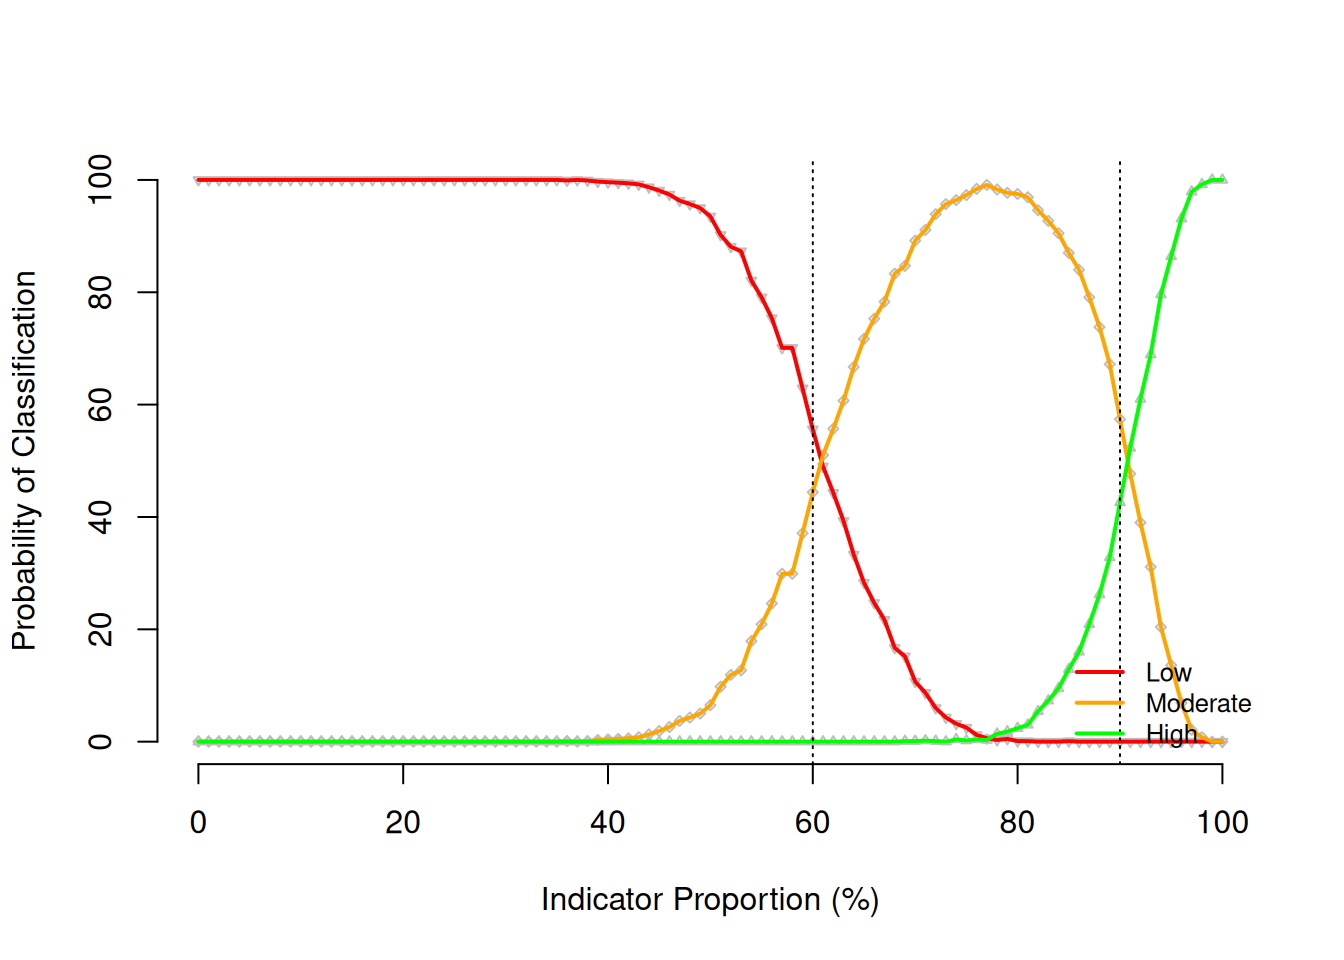
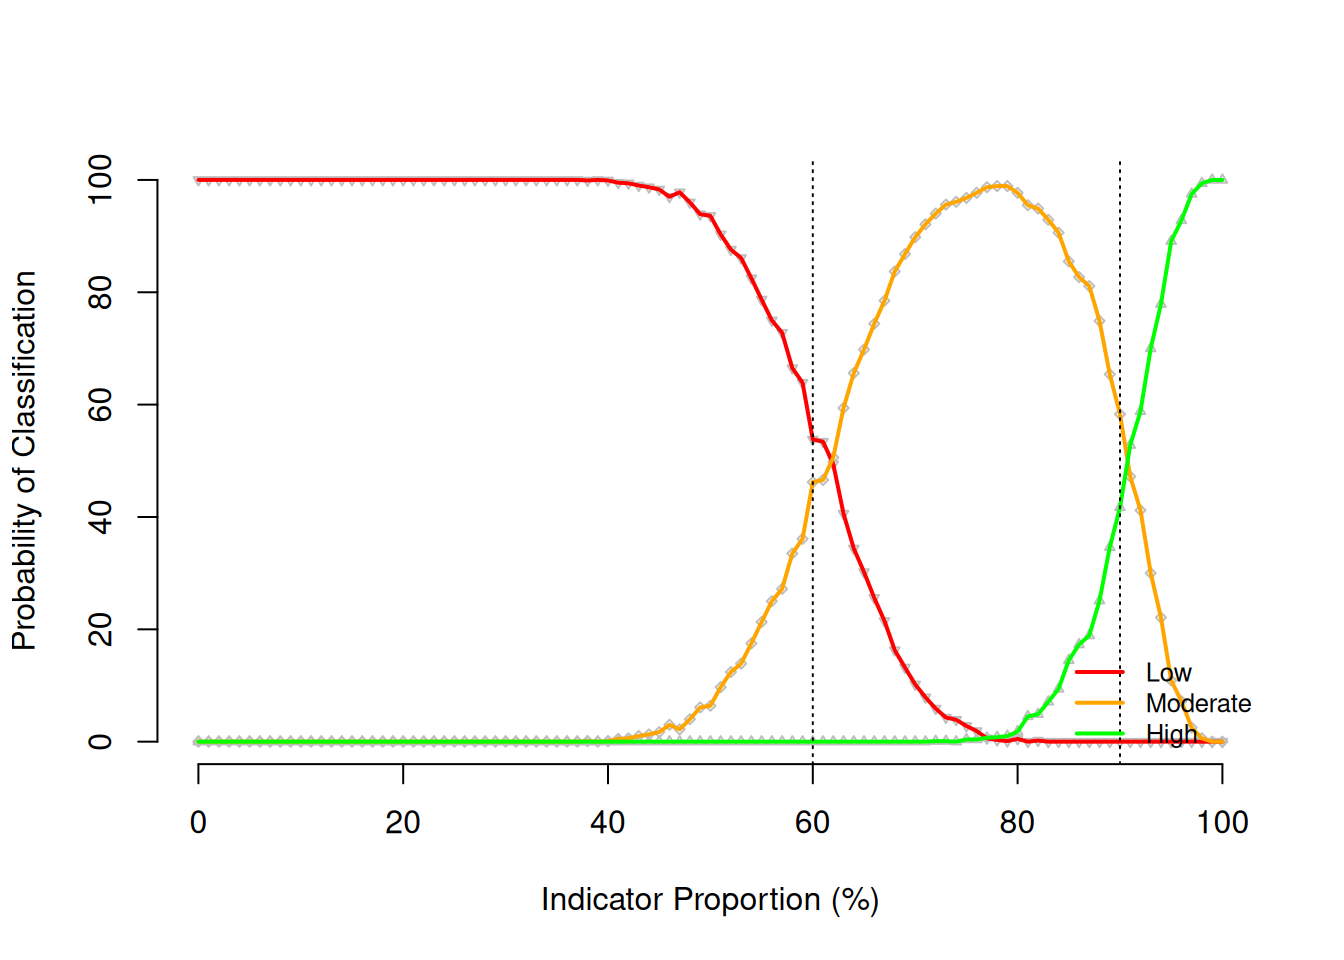
Built site for gh-pages

diff --git a/blog.html b/blog.html
@@ -310,7 +310,7 @@ window.Quarto = {
 
 <div class="quarto-listing quarto-listing-container-default" id="listing-listing">
 <div class="list quarto-listing-default">
-<div class="quarto-post image-right" data-index="0" data-categories="bmV3cyUyQ2Fubm91bmNlbWVudCUyQ21lZXQtdGhlLXRlYW0=" data-listing-date-sort="1771632000000" data-listing-file-modified-sort="1771927010360" data-listing-date-modified-sort="1771927010000" data-listing-reading-time-sort="2" data-listing-word-count-sort="303">
+<div class="quarto-post image-right" data-index="0" data-categories="bmV3cyUyQ2Fubm91bmNlbWVudCUyQ21lZXQtdGhlLXRlYW0=" data-listing-date-sort="1771632000000" data-listing-file-modified-sort="1771931333941" data-listing-date-modified-sort="1771931333000" data-listing-reading-time-sort="2" data-listing-word-count-sort="303">
 <div class="thumbnail"><a href="./posts/2026-02-21-aziz-executive-director/index.html" class="no-external">
 
 <img loading="lazy" src="./images/azizgoza.jpeg" class="thumbnail-image">
@@ -347,7 +347,7 @@ Ernest Guevarra
 </a>
 </div>
 </div>
-<div class="quarto-post image-right" data-index="1" data-categories="bmV3cyUyQ2Fubm91bmNlbWVudA==" data-listing-date-sort="1770940800000" data-listing-file-modified-sort="1771927010360" data-listing-date-modified-sort="1771927010000" data-listing-reading-time-sort="2" data-listing-word-count-sort="397">
+<div class="quarto-post image-right" data-index="1" data-categories="bmV3cyUyQ2Fubm91bmNlbWVudA==" data-listing-date-sort="1770940800000" data-listing-file-modified-sort="1771931333941" data-listing-date-modified-sort="1771931333000" data-listing-reading-time-sort="2" data-listing-word-count-sort="397">
 <div class="thumbnail"><a href="./posts/2026-02-13-welcome-to-nutriverse/index.html" class="no-external">
 
 <img loading="lazy" src="./images/nutriverse_banner.png" class="thumbnail-image">
@@ -382,7 +382,7 @@ Ernest Guevarra
 </a>
 </div>
 </div>
-<div class="quarto-post image-right" data-index="2" data-categories="bmV3cyUyQ2Fubm91bmNlbWVudA==" data-listing-date-sort="1770249600000" data-listing-file-modified-sort="1771927010360" data-listing-date-modified-sort="1771927010000" data-listing-reading-time-sort="4" data-listing-word-count-sort="603">
+<div class="quarto-post image-right" data-index="2" data-categories="bmV3cyUyQ2Fubm91bmNlbWVudA==" data-listing-date-sort="1770249600000" data-listing-file-modified-sort="1771931333941" data-listing-date-modified-sort="1771931333000" data-listing-reading-time-sort="4" data-listing-word-count-sort="603">
 <div class="thumbnail"><a href="./posts/2026-02-05-open-source-collective/index.html" class="no-external">
 
 <img loading="lazy" src="./images/osc_logo_square.png" class="thumbnail-image">
@@ -417,7 +417,7 @@ Ernest Guevarra
 </a>
 </div>
 </div>
-<div class="quarto-post image-right" data-index="3" data-categories="bmV3cyUyQ2Fubm91bmNlbWVudCUyQ3BhY2thZ2Vz" data-listing-date-sort="1770076800000" data-listing-file-modified-sort="1771927010360" data-listing-date-modified-sort="1771927010000" data-listing-reading-time-sort="6" data-listing-word-count-sort="1118">
+<div class="quarto-post image-right" data-index="3" data-categories="bmV3cyUyQ2Fubm91bmNlbWVudCUyQ3BhY2thZ2Vz" data-listing-date-sort="1770076800000" data-listing-file-modified-sort="1771931333941" data-listing-date-modified-sort="1771931333000" data-listing-reading-time-sort="6" data-listing-word-count-sort="1118">
 <div class="thumbnail"><a href="./posts/2026-02-03-sleacr-release/index.html" class="no-external">
 
 <img loading="lazy" src="./images/sleacr_banner.svg" class="thumbnail-image">
@@ -454,7 +454,7 @@ Ernest Guevarra
 </a>
 </div>
 </div>
-<div class="quarto-post image-right" data-index="4" data-categories="bmV3cyUyQ3BhY2thZ2Vz" data-listing-date-sort="1769904000000" data-listing-file-modified-sort="1771927010359" data-listing-date-modified-sort="1771927010000" data-listing-reading-time-sort="1" data-listing-word-count-sort="174">
+<div class="quarto-post image-right" data-index="4" data-categories="bmV3cyUyQ3BhY2thZ2Vz" data-listing-date-sort="1769904000000" data-listing-file-modified-sort="1771931333941" data-listing-date-modified-sort="1771931333000" data-listing-reading-time-sort="1" data-listing-word-count-sort="174">
 <div class="thumbnail"><a href="./posts/2026-02-01-package-updates/index.html" class="no-external">
 
 <img loading="lazy" src="./images/nipntk_banner.svg" class="thumbnail-image">
@@ -489,7 +489,7 @@ Ernest Guevarra
 </a>
 </div>
 </div>
-<div class="quarto-post image-right" data-index="5" data-categories="bmV3cyUyQ21vbnRobHktcm91bmQtdXA=" data-listing-date-sort="1769472000000" data-listing-file-modified-sort="1771927010359" data-listing-date-modified-sort="1771927010000" data-listing-reading-time-sort="1" data-listing-word-count-sort="198">
+<div class="quarto-post image-right" data-index="5" data-categories="bmV3cyUyQ21vbnRobHktcm91bmQtdXA=" data-listing-date-sort="1769472000000" data-listing-file-modified-sort="1771931333941" data-listing-date-modified-sort="1771931333000" data-listing-reading-time-sort="1" data-listing-word-count-sort="198">
 <div class="thumbnail"><a href="./posts/2026-01-27-monthly-roundup/index.html" class="no-external">
 
 <img loading="lazy" src="./images/nutriverse.png" class="thumbnail-image">

diff --git a/index.html b/index.html
@@ -345,7 +345,7 @@ window.Quarto = {
 <h1>Latest posts</h1>
 <div id="listing-featured-posts" class="quarto-listing quarto-listing-container-grid">
 <div class="list grid quarto-listing-cols-3">
-<div class="g-col-1" data-index="0" data-categories="bmV3cyUyQ2Fubm91bmNlbWVudCUyQ21lZXQtdGhlLXRlYW0=" data-listing-date-sort="1771632000000" data-listing-file-modified-sort="1771927010360" data-listing-date-modified-sort="1771927010000" data-listing-reading-time-sort="2" data-listing-word-count-sort="303">
+<div class="g-col-1" data-index="0" data-categories="bmV3cyUyQ2Fubm91bmNlbWVudCUyQ21lZXQtdGhlLXRlYW0=" data-listing-date-sort="1771632000000" data-listing-file-modified-sort="1771931333941" data-listing-date-modified-sort="1771931333000" data-listing-reading-time-sort="2" data-listing-word-count-sort="303">
 <a href="./posts/2026-02-21-aziz-executive-director/index.html" class="quarto-grid-link">
 <div class="quarto-grid-item card h-100 card-left borderless">
 <p class="card-img-top">
@@ -369,7 +369,7 @@ Feb 21, 2026
 </div>
 </div></a>
 </div>
-<div class="g-col-1" data-index="1" data-categories="bmV3cyUyQ2Fubm91bmNlbWVudA==" data-listing-date-sort="1770940800000" data-listing-file-modified-sort="1771927010360" data-listing-date-modified-sort="1771927010000" data-listing-reading-time-sort="2" data-listing-word-count-sort="397">
+<div class="g-col-1" data-index="1" data-categories="bmV3cyUyQ2Fubm91bmNlbWVudA==" data-listing-date-sort="1770940800000" data-listing-file-modified-sort="1771931333941" data-listing-date-modified-sort="1771931333000" data-listing-reading-time-sort="2" data-listing-word-count-sort="397">
 <a href="./posts/2026-02-13-welcome-to-nutriverse/index.html" class="quarto-grid-link">
 <div class="quarto-grid-item card h-100 card-left borderless">
 <p class="card-img-top">
@@ -393,7 +393,7 @@ Feb 13, 2026
 </div>
 </div></a>
 </div>
-<div class="g-col-1" data-index="2" data-categories="bmV3cyUyQ2Fubm91bmNlbWVudA==" data-listing-date-sort="1770249600000" data-listing-file-modified-sort="1771927010360" data-listing-date-modified-sort="1771927010000" data-listing-reading-time-sort="4" data-listing-word-count-sort="603">
+<div class="g-col-1" data-index="2" data-categories="bmV3cyUyQ2Fubm91bmNlbWVudA==" data-listing-date-sort="1770249600000" data-listing-file-modified-sort="1771931333941" data-listing-date-modified-sort="1771931333000" data-listing-reading-time-sort="4" data-listing-word-count-sort="603">
 <a href="./posts/2026-02-05-open-source-collective/index.html" class="quarto-grid-link">
 <div class="quarto-grid-item card h-100 card-left borderless">
 <p class="card-img-top">
@@ -427,7 +427,7 @@ Feb 5, 2026
 <h1>Featured packages</h1>
 <div id="listing-featured-packages" class="quarto-listing quarto-listing-container-grid">
 <div class="list grid quarto-listing-cols-3">
-<div class="g-col-1" data-index="0" data-listing-file-modified-sort="1771927010359" data-listing-reading-time-sort="2" data-listing-word-count-sort="280">
+<div class="g-col-1" data-index="0" data-listing-file-modified-sort="1771931333940" data-listing-reading-time-sort="2" data-listing-word-count-sort="280">
 <a href="./packages/nipnTK.html" class="quarto-grid-link">
 <div class="quarto-grid-item card h-100 card-left borderless">
 <p class="card-img-top">
@@ -448,7 +448,7 @@ nipnTK: National Information Platforms for Nutrition (NiPN) Data Quality Toolkit
 </div>
 </div></a>
 </div>
-<div class="g-col-1" data-index="1" data-listing-file-modified-sort="1771927010359" data-listing-reading-time-sort="2" data-listing-word-count-sort="238">
+<div class="g-col-1" data-index="1" data-listing-file-modified-sort="1771931333941" data-listing-reading-time-sort="2" data-listing-word-count-sort="238">
 <a href="./packages/sleacr.html" class="quarto-grid-link">
 <div class="quarto-grid-item card h-100 card-left borderless">
 <p class="card-img-top">
@@ -469,7 +469,7 @@ sleacr: Simplified Lot Quality Assurance Sampling Evaluation of Access and Cover
 </div>
 </div></a>
 </div>
-<div class="g-col-1" data-index="2" data-listing-file-modified-sort="1771927010359" data-listing-reading-time-sort="2" data-listing-word-count-sort="263">
+<div class="g-col-1" data-index="2" data-listing-file-modified-sort="1771931333941" data-listing-reading-time-sort="2" data-listing-word-count-sort="263">
 <a href="./packages/zscorer.html" class="quarto-grid-link">
 <div class="quarto-grid-item card h-100 card-left borderless">
 <p class="card-img-top">

diff --git a/contributing/index.html b/contributing/index.html
@@ -291,7 +291,7 @@ background: #E4F0EF;
 
 
 
-<p>nutriverse develops open source technical tools and systems along with a community of practice infrastructure that actively participates in, leverages, and stewards the use of these tools and systems for the purpose of open and reproducible nutrition data analytics and research. Our core team and community cultivate an inclusive and welcoming space where people with diverse backgrounds and experience levels can learn, exchange ideas, and collaborate openly through shared norms and open-source software. All participation in nutriverse activities is guided by our <a href="https://nutriverse.io/code-of-conduct.html">Code of Conduct</a>.</p>
+<p><a href="https://nutriverse.io">nutriverse</a> develops open source technical tools and systems along with a community of practice infrastructure that actively participates in, leverages, and stewards the use of these tools and systems for the purpose of open and reproducible nutrition data analytics and research. Our core team and community cultivate an inclusive and welcoming space where people with diverse backgrounds and experience levels can learn, exchange ideas, and collaborate openly through shared norms and open-source software. All participation in nutriverse activities is guided by our <a href="https://nutriverse.io/code-of-conduct.html">Code of Conduct</a>.</p>
 <p>We encourage contributions from people of all backgrounds and skill levels, whether in coding, documentation, mentoring, localisation, or other forms of participation. Your perspective matters, whether you’re an experienced programmer or just getting started. You don’t have to identify as a developer to make a meaningful impact. You might <strong>spend 30 minutes</strong> sharing how you use a package in our <a href="https://nutriverse.zulipchat.com" class="external" target="_blank">Zulip chat forum</a> or reporting a bug, <strong>an hour</strong> attending a Community Call to learn something new, or <strong>take on a longer-term role</strong> helping to maintain a package.</p>
 <section id="what-are-some-benefits-of-contributing" class="level2">
 <h2 class="anchored" data-anchor-id="what-are-some-benefits-of-contributing">What are some benefits of contributing?</h2>
@@ -387,7 +387,7 @@ background: #E4F0EF;
 <div class="img-float">
 <p><img src="../images/learn.svg" class="img-fluid" style="float: right; margin: 10px; width: 250px"></p>
 </div>
-<p>nutriverse offers opportunities for both new and experienced <a href="https://r-project.org" class="external" target="_blank">R</a> users and developers to grow, whether by reading and listening, or by learning through hands-on experience. All of this takes place in a culture grounded in trust, generosity, proper attribution, and appreciation.</p>
+<p><a href="https://nutriverse.io">nutriverse</a> offers opportunities for both new and experienced <a href="https://r-project.org" class="external" target="_blank">R</a> users and developers to grow, whether by reading and listening, or by learning through hands-on experience. All of this takes place in a culture grounded in trust, generosity, proper attribution, and appreciation.</p>
 <p>Our focus is on using, developing, and documenting code, as well as strengthening the community as these are areas that directly support our aims. Those seeking more general <a href="https://r-project.org" class="external" target="_blank">R</a> training may wish to explore resources such as <a href="https://education.rstudio.com/" class="external" target="_blank">RStudio Education</a> and <a href="https://carpentries.org/" class="external" target="_blank">The Carpentries</a>.</p>
 <p>We will be offering fee-based training services for use of <a href="https://r-project.org" class="external" target="_blank">R</a> specifically for open and reproducible health and nutrition data analysis and reporting workflows starting in April 2026.</p>
 <p>Browse the <em>“I want to”</em> statements below to find opportunities that spark your interest. Click on any action listed under a statement to learn more about the related <a href="https://nutriverse.io">nutriverse</a> resource and how you can get involved.</p>

diff --git a/community/index.html b/community/index.html
@@ -251,13 +251,12 @@ background: #E4F0EF;
 
 <div class="community-banner">
 <div class="info-block">
-<!-- > Tell me and I’ll forget.     
-> Show me, and I may not remember.     
-> Involve me, and I’ll understand.     -->
+<!-- > I hear and I forget;     
+> I see and I remember;     
+> I do and I understand. -->
 <blockquote class="blockquote">
-<p>I hear and I forget;<br>
-I see and I remember;<br>
-I do and I understand.</p>
+<p>Go to the people. Live with them. Learn from them. Love them. Start with what they know. Build with what they have. But with the best leaders, when the work is done, the task accomplished, the people will say <strong>‘We have done it ourselves’</strong>.<br>
+- Lao Tzu</p>
 </blockquote>
 </div>
 </div>
@@ -270,8 +269,8 @@ I do and I understand.</p>
 <p><img src="../images/community.png" class="img-fluid" style="float: left; margin: 10px; width: 250px"></p>
 </div>
 <h1 id="community-calls">Community calls</h1>
-<p>Our quarterly community call is when our community gets to come together and connect. We envision a forum by which the community is able to discuss on the relevant topics of the time.</p>
-<p>We plan to hold our first community call sometime in March 2026.</p>
+<p>Our quarterly community call is when our community gets to come together and connect. We envision a forum by which the community is able to discuss on the various topics relevant and important to the community.</p>
+<p>Our first community call will be on 18th of March 2026.</p>
 </div>
 </div>
 <!-- ::: {.event-banner}
@@ -301,7 +300,8 @@ See a full listing and calendar of upcoming events [here](https://oxford-ihtm.io
 <p><a href="https://zulip.com/"><img src="../images/zulip-icon-512x512.png" class="img-fluid" style="float: right; margin: 10px; width: 250px"></a></p>
 </div>
 <h1 id="community-chat-and-forum">Community chat and forum</h1>
-<p>We offer our community a forum for discussing, connecting, and collaborating. We are fortunate to have been gifted with sponsored hosting by <a href="https://zulip.com" class="external" target="_blank">Zulip</a>, an organised team chat app designed for efficient communication. Invitations to join the community chat group on Zulip are usually handed out during or after a nutriverse-led event. If you would like to join the nutriverse community chat group on Zulip but have not had the chance to be invited, please send us a message via our <a href="../about/contact.html">contacts page</a> requesting an invite.</p>
+<p>We offer our community a forum for discussing, connecting, and collaborating. We are fortunate to have been gifted with sponsored hosting by <a href="https://zulip.com" class="external" target="_blank">Zulip</a>, an organised team chat app designed for efficient communication.</p>
+<p>The publicly-available forum can be viewed at <a href="https://nutriverse.zulipchat.com">https://nutriverse.zulipchat.com</a> where you can see topics that the community talks about and the progress and updates on the projects that we are working on. To join the discussion, you will need to be invited to join the community chat group on Zulip which are usually handed out during or after a nutriverse-led event. If you would like to join the nutriverse community chat group on Zulip but have not had the chance to be invited, please send us a message via our <a href="../about/contact.html">contacts page</a> requesting an invite.</p>
 </div>
 </div>
 

diff --git a/about/team.html b/about/team.html
@@ -287,7 +287,7 @@ window.Quarto = {
 
 <div class="quarto-listing quarto-listing-container-grid" id="listing-listing">
 <div class="list grid quarto-listing-cols-3">
-<div class="g-col-1" data-index="0" data-listing-file-modified-sort="1771927010360" data-listing-reading-time-sort="1" data-listing-word-count-sort="166">
+<div class="g-col-1" data-index="0" data-listing-file-modified-sort="1771931333942" data-listing-reading-time-sort="1" data-listing-word-count-sort="166">
 <a href="../team/aziz-goza.html" class="quarto-grid-link">
 <div class="quarto-grid-item card h-100 card-left borderless">
 <p class="card-img-top">
@@ -308,7 +308,7 @@ With over 15 years of experience across Africa and Asia, I am a nutrition and st
 </div>
 </div></a>
 </div>
-<div class="g-col-1" data-index="1" data-listing-file-modified-sort="1771927010360" data-listing-reading-time-sort="2" data-listing-word-count-sort="353">
+<div class="g-col-1" data-index="1" data-listing-file-modified-sort="1771931333942" data-listing-reading-time-sort="2" data-listing-word-count-sort="353">
 <a href="../team/emmanuel-mandalazi.html" class="quarto-grid-link">
 <div class="quarto-grid-item card h-100 card-left borderless">
 <p class="card-img-top">
@@ -329,7 +329,7 @@ An experienced nutrition and public health specialist with over 15 years’ expe
 </div>
 </div></a>
 </div>
-<div class="g-col-1" data-index="2" data-listing-file-modified-sort="1771927010360" data-listing-reading-time-sort="2" data-listing-word-count-sort="373">
+<div class="g-col-1" data-index="2" data-listing-file-modified-sort="1771931333942" data-listing-reading-time-sort="2" data-listing-word-count-sort="373">
 <a href="../team/ernest-guevarra.html" class="quarto-grid-link">
 <div class="quarto-grid-item card h-100 card-left borderless">
 <p class="card-img-top">
@@ -350,7 +350,7 @@ I am an independent public health consultant with more than 20 years of professi
 </div>
 </div></a>
 </div>
-<div class="g-col-1" data-index="3" data-listing-file-modified-sort="1771927010360" data-listing-reading-time-sort="2" data-listing-word-count-sort="290">
+<div class="g-col-1" data-index="3" data-listing-file-modified-sort="1771931333942" data-listing-reading-time-sort="2" data-listing-word-count-sort="290">
 <a href="../team/nicholus-tint-zaw.html" class="quarto-grid-link">
 <div class="quarto-grid-item card h-100 card-left borderless">
 <p class="card-img-top">
@@ -371,7 +371,7 @@ Nicholus Tint Zaw is a highly accomplished professional with a strong background
 </div>
 </div></a>
 </div>
-<div class="g-col-1" data-index="4" data-listing-file-modified-sort="1771927010360" data-listing-reading-time-sort="2" data-listing-word-count-sort="322">
+<div class="g-col-1" data-index="4" data-listing-file-modified-sort="1771931333942" data-listing-reading-time-sort="2" data-listing-word-count-sort="322">
 <a href="../team/tomas-zaba.html" class="quarto-grid-link">
 <div class="quarto-grid-item card h-100 card-left borderless">
 <p class="card-img-top">

diff --git a/events/index.html b/events/index.html
@@ -305,7 +305,7 @@ window.Quarto = {
 
 <div id="listing-current-events" class="quarto-listing quarto-listing-container-default">
 <div class="list quarto-listing-default">
-<div class="quarto-post image-left" data-index="0" data-listing-date-sort="1771927010000" data-listing-file-modified-sort="1771927010101" data-listing-date-modified-sort="NaN" data-listing-reading-time-sort="2" data-listing-word-count-sort="287">
+<div class="quarto-post image-left" data-index="0" data-listing-date-sort="1771931333000" data-listing-file-modified-sort="1771931333678" data-listing-date-modified-sort="NaN" data-listing-reading-time-sort="2" data-listing-word-count-sort="287">
 <div class="thumbnail"><a href="../events/2026-02-27-nutriverse-launch.html" class="no-external">
 
 <img loading="lazy" src="../images/nutriverse_banner.png" class="thumbnail-image" style="height: 200px;">

diff --git a/posts/2026-02-03-sleacr-release/index.html b/posts/2026-02-03-sleacr-release/index.html
@@ -746,10 +746,10 @@ $beta
 <span id="cb12-6"><a href="#cb12-6" aria-hidden="true" tabindex="-1"></a><span class="do">## Get classification probabilities ----</span></span>
 <span id="cb12-7"><a href="#cb12-7" aria-hidden="true" tabindex="-1"></a><span class="fu">lqas_get_class_prob</span>(lqas_sim_pop)</span></code></pre></div><button title="Copy to Clipboard" class="code-copy-button"><i class="bi"></i></button></div>
 <div class="cell-output cell-output-stdout">
-<pre><code>                    Low : 0.9555
-               Moderate : 0.8351
-                   High : 0.8384
-                Overall : 0.9076
+<pre><code>                    Low : 0.955
+               Moderate : 0.8312
+                   High : 0.8383
+                Overall : 0.9062
 Gross misclassification : 0</code></pre>
 </div>
 </div>
